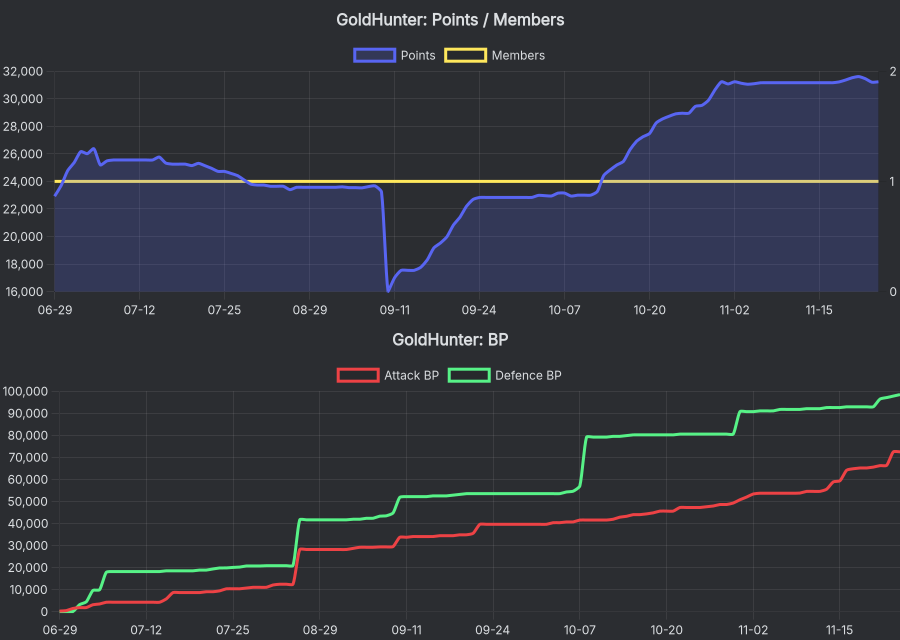
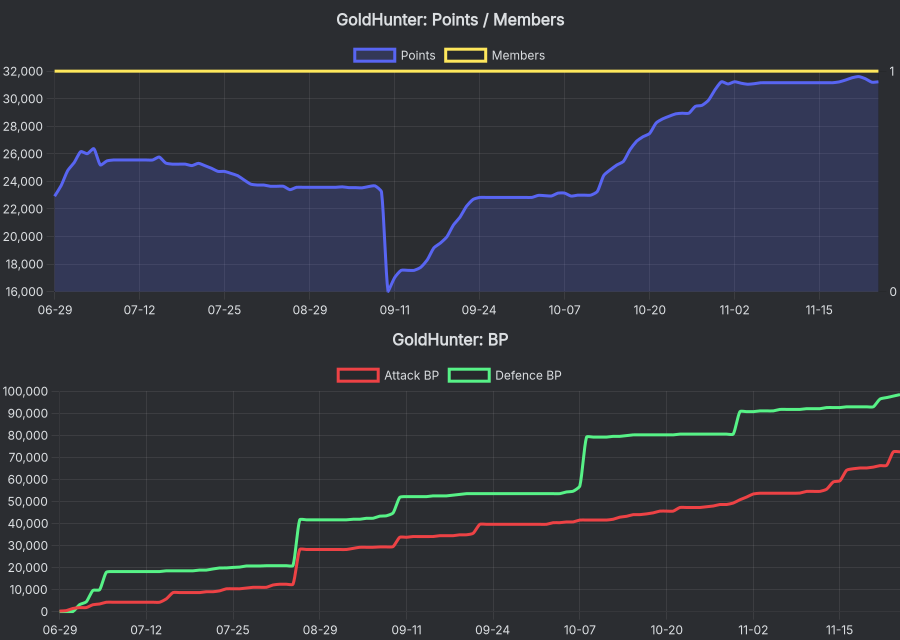
Chart: integer secondary axis from zero

Changed region(s): [[0.0622, 0.0938, 0.9956, 0.125], [0.0622, 0.2812, 0.9644, 0.3125]]

diff --git a/src/charts.ts b/src/charts.ts
@@ -21,7 +21,7 @@ function baseOptions(title: string) {
     scales: {
       x: { ticks: { color: FG, maxTicksLimit: 10 }, grid: { color: GRID } },
       y: { ticks: { color: FG }, grid: { color: GRID }, position: 'left' as const },
-      y2: { ticks: { color: FG, precision: 0 }, grid: { drawOnChartArea: false }, position: 'right' as const },
+      y2: { beginAtZero: true, ticks: { color: FG, precision: 0 }, grid: { drawOnChartArea: false }, position: 'right' as const },
     },
   };
 }
